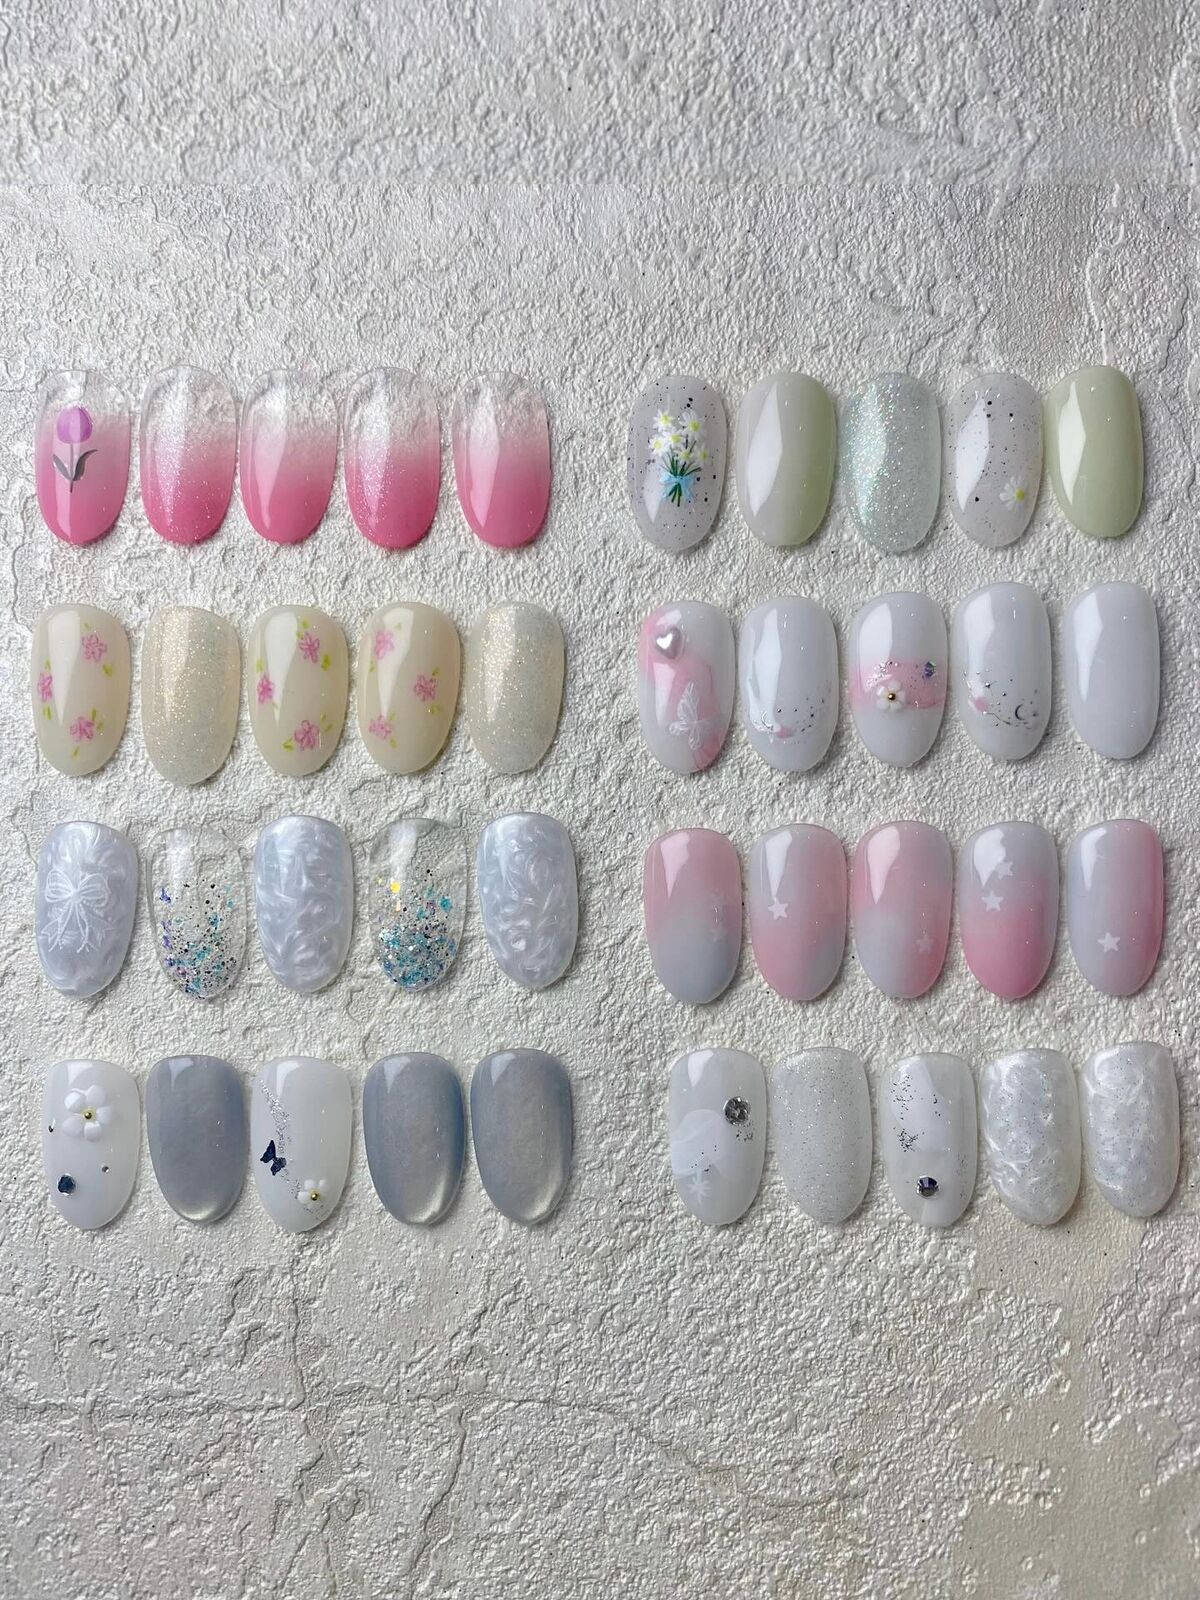
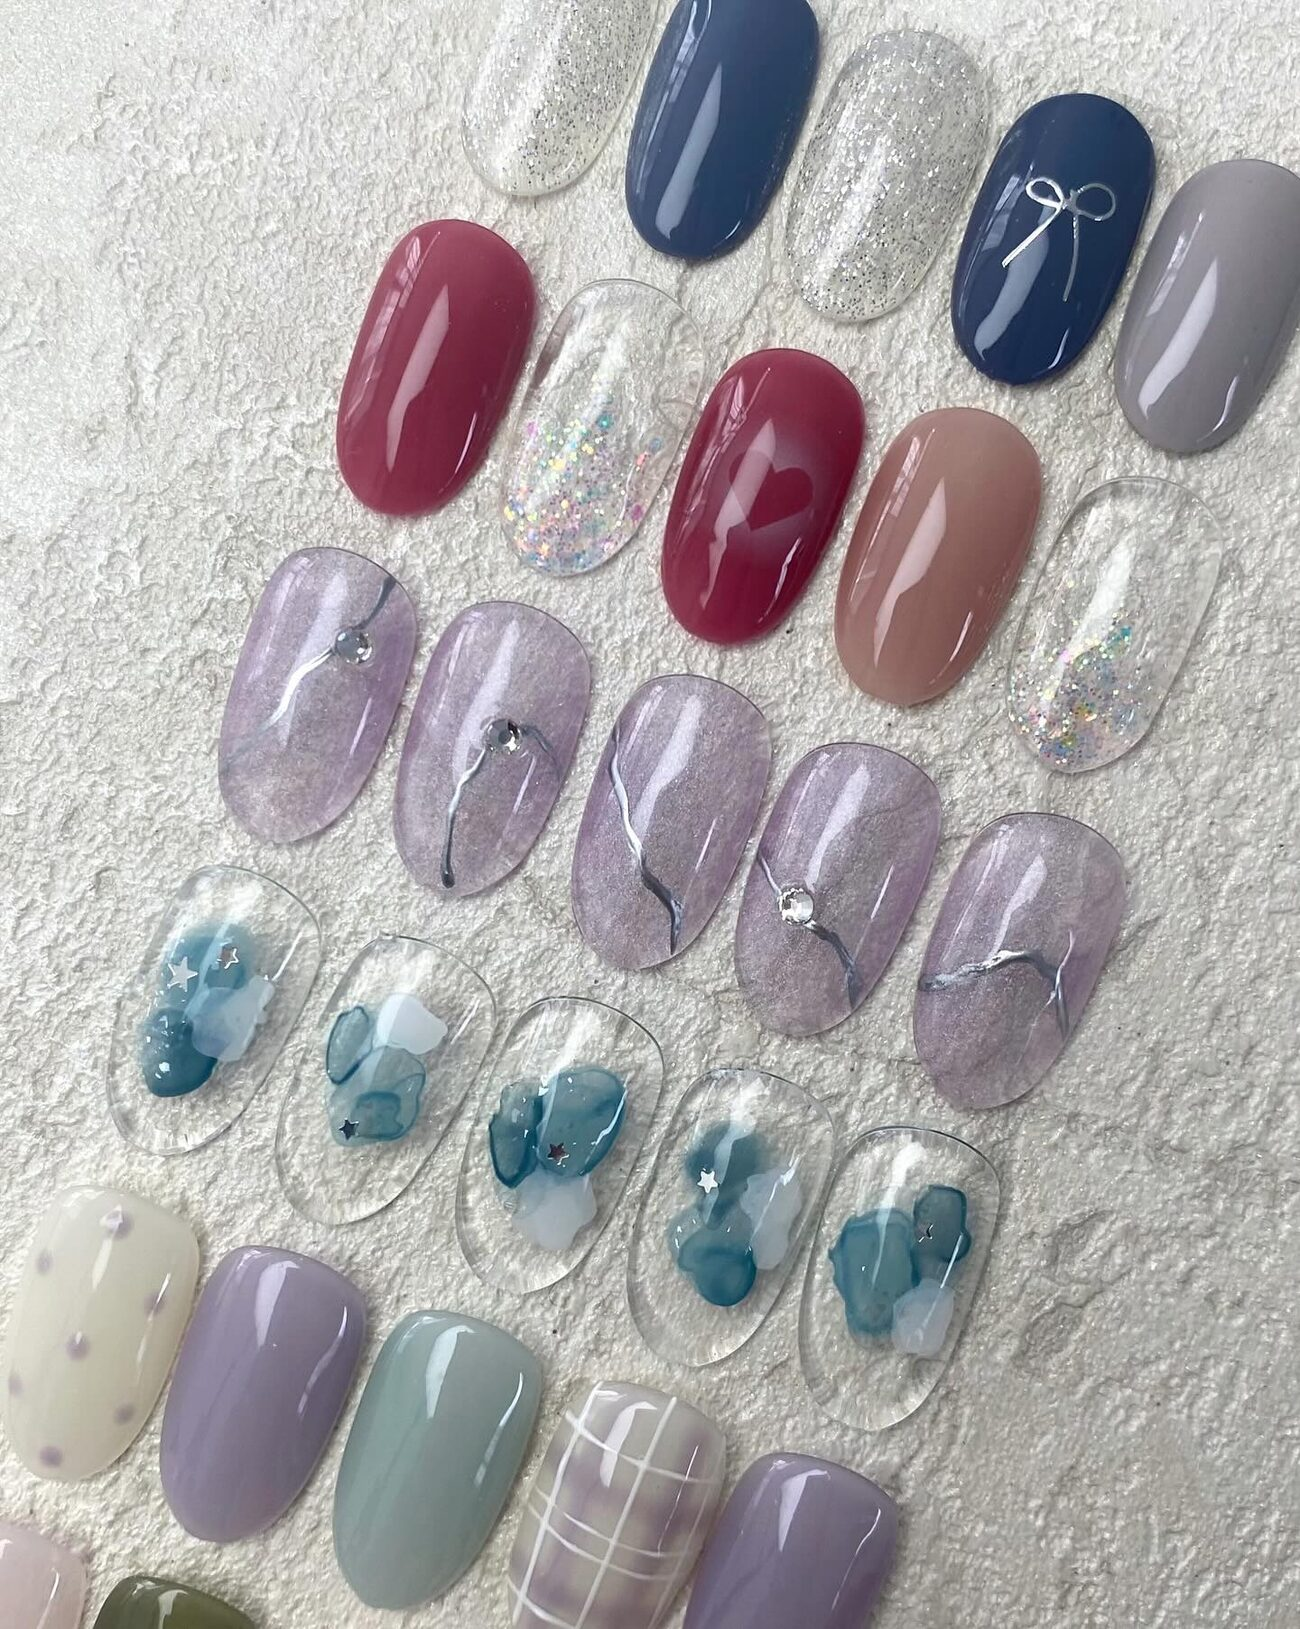
feat: 헤딩 명조 Noto Serif KR Light + 호버 reduced-motion 가드 제거(강제 실행) + 아카이브 사진 정정

diff --git a/index.html b/index.html
@@ -14,7 +14,7 @@
 <link rel="icon" href="logo-mark.png">
 <link rel="preconnect" href="https://fonts.googleapis.com">
 <link rel="preconnect" href="https://fonts.gstatic.com" crossorigin>
-<link href="https://fonts.googleapis.com/css2?family=Cormorant+Garamond:ital,wght@0,400;0,500;0,600;1,400;1,500&family=Noto+Sans+KR:wght@300;400;500;700&display=swap" rel="stylesheet">
+<link href="https://fonts.googleapis.com/css2?family=Cormorant+Garamond:ital,wght@0,400;0,500;1,400&family=Noto+Serif+KR:wght@300;400;500&family=Noto+Sans+KR:wght@300;400;500;700&display=swap" rel="stylesheet">
 <link rel="stylesheet" href="https://cdn.jsdelivr.net/gh/orioncactus/pretendard@v1.3.9/dist/web/static/pretendard.min.css">
 <style>
 :root{
@@ -23,7 +23,7 @@
   --plum:#693B84; --plum-dk:#562F6C; --plum-lt:#B98FD6;
   --en:'Cormorant Garamond',Georgia,serif;
   --kr:'Pretendard','Pretendard Variable',-apple-system,BlinkMacSystemFont,'Segoe UI','Malgun Gothic',Roboto,Arial,sans-serif;
-  --kr-disp:'Noto Sans KR',var(--kr);
+  --kr-disp:'Noto Serif KR',Georgia,serif;
   --pad:clamp(20px,5vw,72px);
   --bar:56px;
 }
@@ -39,8 +39,8 @@ a:focus-visible,button:focus-visible,summary:focus-visible{outline:2px solid var
 .wrap{max-width:1240px;margin:0 auto;padding-left:var(--pad);padding-right:var(--pad)}
 .lab{font-family:var(--en);font-weight:400;font-size:.72rem;letter-spacing:.26em;text-transform:uppercase;color:var(--plum)}
 .lab-m{color:var(--muted)}
-h2{font-family:var(--kr-disp);font-size:clamp(1.55rem,3.3vw,2.3rem);font-weight:500;letter-spacing:-.015em;line-height:1.42}
-h3{font-family:var(--kr-disp);font-size:1.06rem;font-weight:600;letter-spacing:-.005em}
+h2{font-family:var(--kr-disp);font-size:clamp(1.55rem,3.3vw,2.3rem);font-weight:300;letter-spacing:-.01em;line-height:1.46}
+h3{font-family:var(--kr-disp);font-size:1.08rem;font-weight:500;letter-spacing:-.005em}
 p{color:var(--ink-2)}
 .sec{padding:clamp(64px,9vw,124px) 0}
 .sec-head{max-width:640px;margin-bottom:clamp(30px,4vw,54px)}
@@ -54,7 +54,7 @@ p{color:var(--ink-2)}
 .top .wrap{display:flex;align-items:center;justify-content:space-between;gap:14px;width:100%}
 .brand{display:flex;align-items:center;gap:9px;min-width:0}
 .brand img{width:26px;height:auto}
-.brand b{font-family:var(--kr-disp);font-weight:600;font-size:.98rem;letter-spacing:-.01em}
+.brand b{font-family:var(--kr-disp);font-weight:500;font-size:.98rem;letter-spacing:-.01em}
 .brand span{font-family:var(--en);font-size:.7rem;letter-spacing:.2em;color:var(--muted);text-transform:uppercase}
 .topnav{display:none;gap:26px;font-family:var(--en);font-size:.8rem;letter-spacing:.14em;text-transform:uppercase;color:var(--ink-2)}
 .topnav a:hover{color:var(--plum)}
@@ -69,7 +69,7 @@ p{color:var(--ink-2)}
 .hero{display:grid;grid-template-columns:1fr;padding-top:var(--bar)}
 .hero-txt{padding:clamp(40px,6vw,60px) var(--pad) clamp(40px,6vw,56px);display:flex;flex-direction:column;justify-content:center}
 .hero-logo{width:clamp(104px,17vw,128px);margin-bottom:20px}
-.hero h1{font-family:var(--kr-disp);font-size:clamp(1.9rem,5.2vw,2.6rem);font-weight:500;letter-spacing:-.02em;line-height:1.38;margin:14px 0 16px;text-wrap:balance}
+.hero h1{font-family:var(--kr-disp);font-size:clamp(1.95rem,5.4vw,2.75rem);font-weight:300;letter-spacing:-.01em;line-height:1.42;margin:14px 0 16px;text-wrap:balance}
 .hero h1 em{font-style:normal;color:var(--plum)}
 .hero-sub{color:var(--muted);font-size:clamp(.96rem,1.6vw,1.05rem);max-width:30em}
 .hero-cta{display:flex;flex-wrap:wrap;gap:10px;margin-top:26px}
@@ -177,7 +177,7 @@ details .ans{padding:0 0 22px;color:var(--muted);font-size:.95rem}
 footer{background:var(--ink);color:var(--paper);padding:clamp(48px,6vw,80px) 0 calc(30px + var(--bar))}
 footer .fbrand{display:flex;align-items:center;gap:12px;margin-bottom:22px}
 footer .fbrand img{width:38px}
-footer .fbrand b{font-family:var(--kr-disp);font-size:1.05rem;font-weight:600}
+footer .fbrand b{font-family:var(--kr-disp);font-size:1.05rem;font-weight:500}
 footer p{color:#A79FAB;font-size:.9rem}
 footer .fl{display:flex;flex-wrap:wrap;gap:18px;margin:22px 0 26px;font-family:var(--en);
   font-size:.76rem;letter-spacing:.16em;text-transform:uppercase}
@@ -219,7 +219,7 @@ footer .cr{border-top:1px solid #332C38;padding-top:20px;font-size:.78rem;color:
 }
 @media (prefers-reduced-motion:reduce){
   .rv-on{opacity:1!important;transform:none!important}
-  .gcell img{transition:none}
+  /* 갤러리 호버 확대는 장식 모션이라 동작 줄이기여도 유지(끊김 방지) */
 }
 </style>
 <noscript><style>.rv-on{opacity:1!important;transform:none!important}</style></noscript>